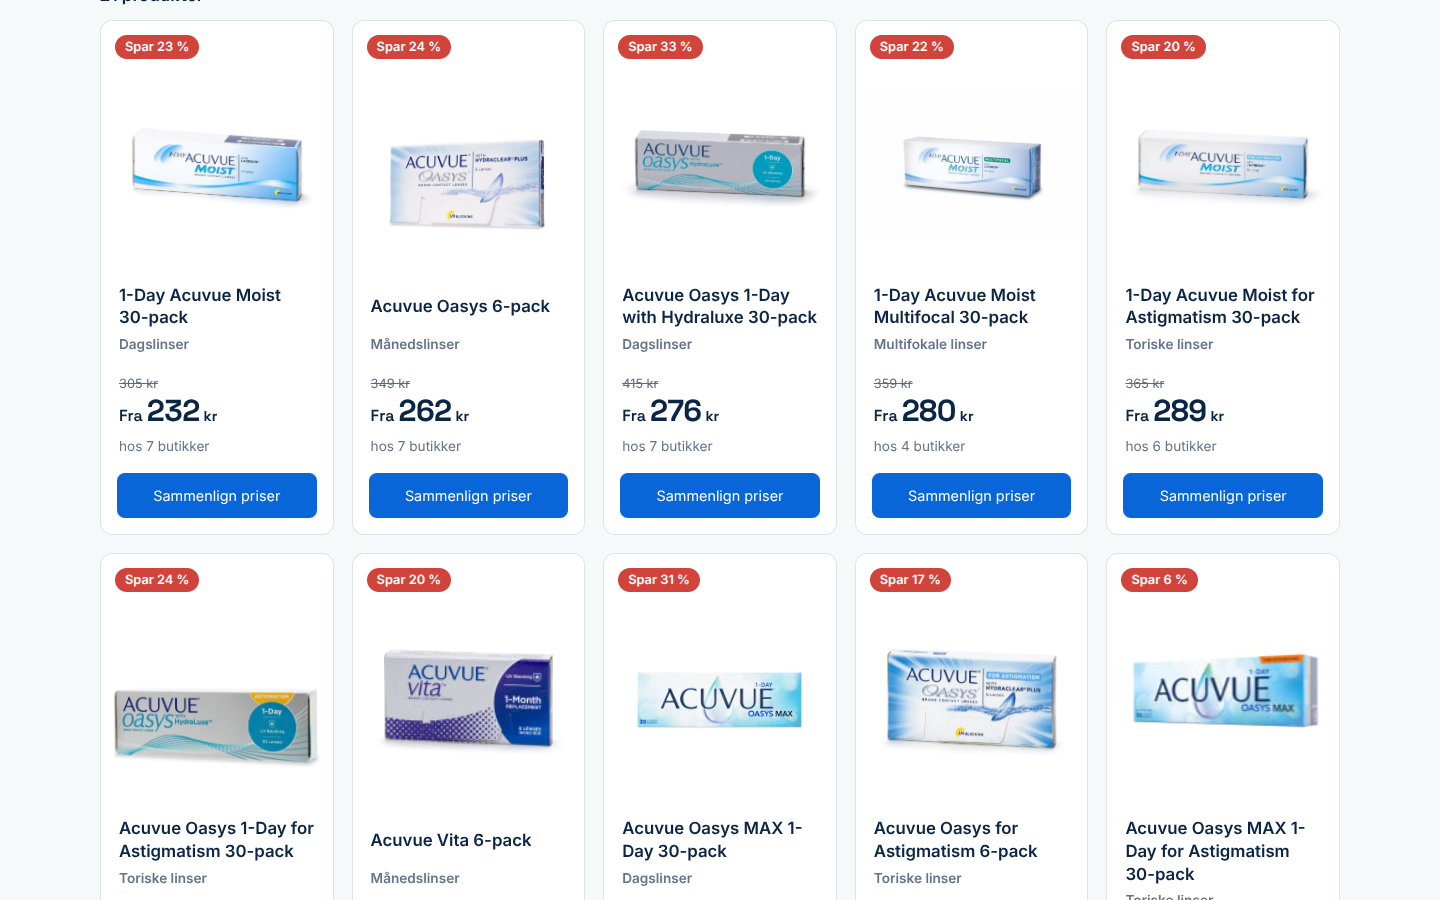
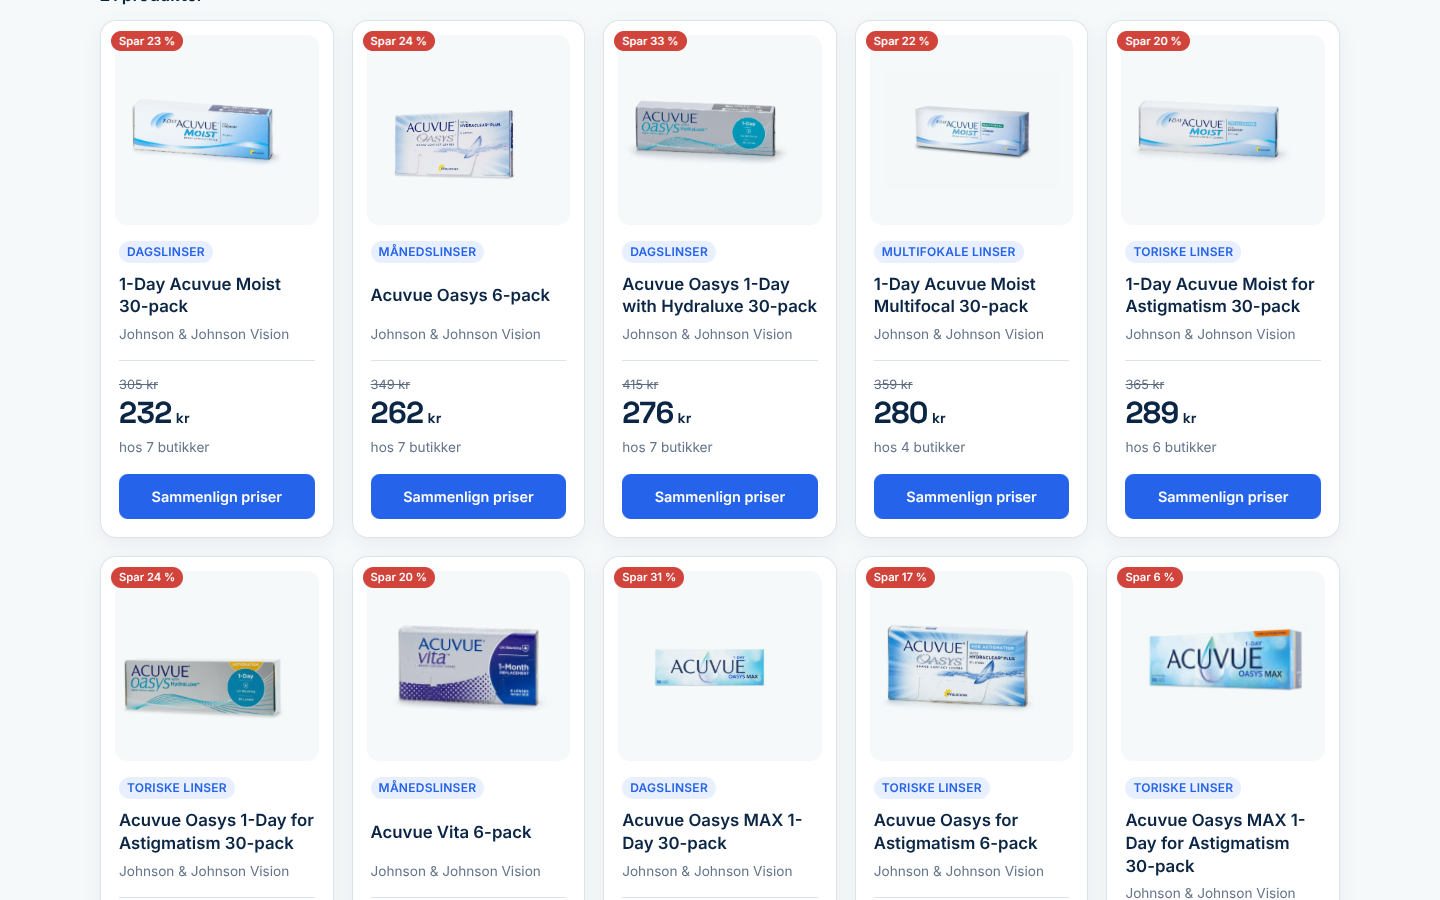
Update preview to narrowly scoped desktop proposal

diff --git a/docs/design/desktop-product-cards/STATUS.md b/docs/design/desktop-product-cards/STATUS.md
@@ -1,7 +1,5 @@
-# Desktopkort – utkast 10. oktober 2026
+# Desktopkort – revidert utkast 10. oktober 2026
 
-Ikke publisert. Desktop over 600 px får eksisterende sparemerke, overstrøket høyeste gyldige butikkpris og Fra-pris, enklere blå knapp og hvitt bildefelt med større bilder. Produktnavn og linsetype beholdes, ekstra spesifikasjoner og merke-/produsentlinje skjules som på mobil. Ekvivalent-produktlenker for egne merkenavn beholdes.
+Ikke publisert. Etter brukerens korrigering begrenses utkastet til rødt Spar X %-merke øverst og overstrøket høyeste butikkpris i stedet for Fra (ekskl. frakt). Dagens desktopbilder, knapper, kategorimerker, spesifikasjoner og øvrige layout beholdes. Mobil er uendret.
 
-Kun CSS. Mobilreglene, priser, lenker, schema og spareberegning er uendret. Eksisterende private-label-unntak for sparemerke beholdes. Ingen bildefiler er endret; noen kildebilder fremstår uklare ved større visning.
-
-Kategori og Acuvue kontrollert ved 375, 1024 og 1440 px. Forhåndsvisning med lokale bildekopier og blokkert tredjepartsskript/font. Venter på tilbakemelding.
+Kategori og Acuvue kontrollert ved 375, 1024 og 1440 px, uten kort- eller sideoverflyt. Kun CSS endret; prisgrunnlag og HTML-lenker er uendret. Eksisterende unntak for egne merkeillustrasjoner beholdes.
